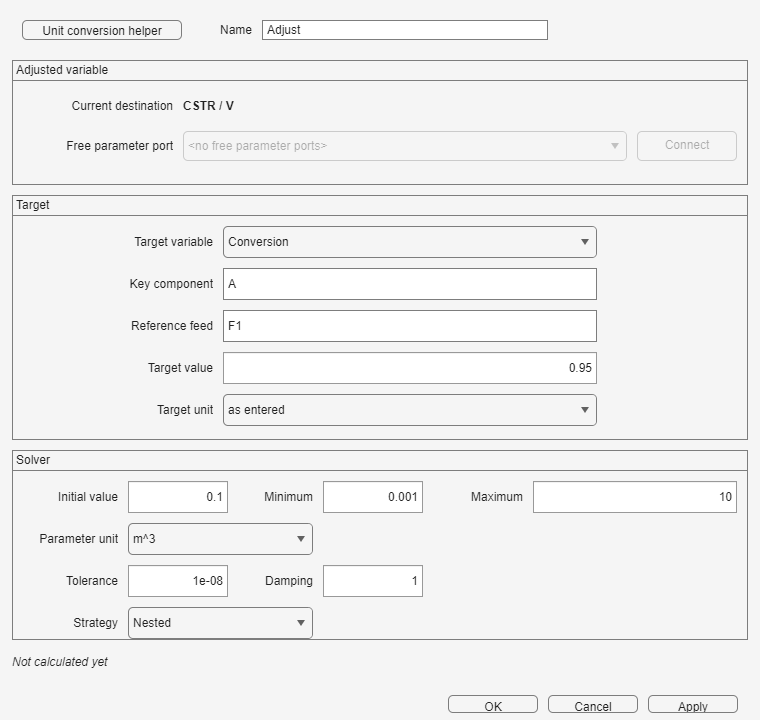
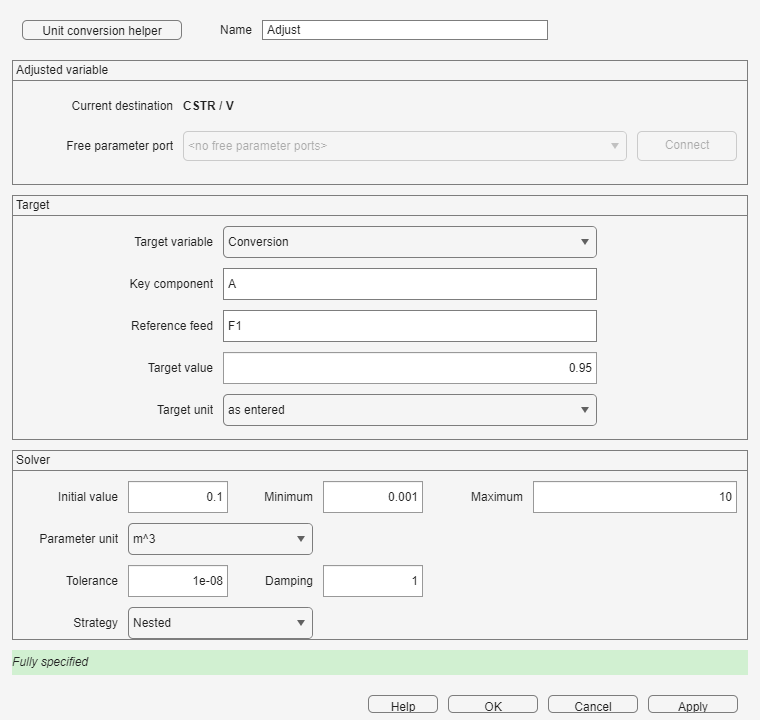
Refresh flowsheet and ideal guide images (T-198)
Recapture the Simulink dialog screenshots with the Help button, add the
missing Ideal Reactor App panels, fix duplicated and misordered text,
end the flowsheet guide at its home page and remove two orphan pages.

Changed region(s): [[0.0, 0.8861, 0.9987, 0.9472], [0.5145, 0.9778, 0.5447, 1.0]]

diff --git a/docs/guides/flowsheet-examples.html b/docs/guides/flowsheet-examples.html
@@ -3,13 +3,13 @@
 <div class="topbar"><div class="brand">Flowsheet Guide</div><nav class="topnav"><a href="../FlowsheetGuide.html">Guide Home</a><a href="flowsheet-getting-started.html">Start a Flowsheet</a></nav></div><div class="crumbs"><a href="../FlowsheetGuide.html">Flowsheet Guide</a> / <span>Examples</span></div>
 <section class="hero"><span class="kicker">Example collection</span><div class="hero-grid"><div><h1>Open a prepared flowsheet</h1><p>Use a solved model to learn block connections, specifications, and result checks before building the same pattern yourself.</p></div><aside class="toc"><h2>On This Page</h2><ol><li><a href="#before">Before you start</a></li><li><a href="#open">Open and run</a></li><li><a href="#catalogue">Example table</a></li><li><a href="#example49">Illustrated example</a></li><li><a href="#next">Next steps</a></li></ol></aside></div></section>
 <section class="section" id="before"><h2>Before You Start</h2><p>Choose an example whose blocks and operating mode resemble your intended model. Examples open from the main <strong>Non-Ideal Reactor Plus</strong> screen.</p></section>
-<section class="section" id="open"><h2>Open and Run an Example</h2><p>In the main window, press <strong>Open example...</strong> in the <strong>Flowsheet (Simulink)</strong> group. The selector lists these descriptions:</p><ol><li>Press <strong>Open example...</strong>.</li><li>Select a description and press <strong>OK</strong>.</li><li>Open the block dialogs to inspect their specifications.</li><li>Press <strong>Run</strong>, then compare Units, Streams, convergence, and Messages.</li></ol></section>
-<section class="section" id="catalogue"><h2>Complete Example Collection</h2><table><tr><th>No.</th><th>Description shown in the selector</th></tr>
+<section class="section" id="open"><h2>Open and Run an Example</h2><p>In the main window, press <strong>Open example...</strong> in the <strong>Flowsheet (Simulink)</strong> group.</p><ol><li>Press <strong>Open example...</strong>.</li><li>Select a description and press <strong>OK</strong>.</li><li>If that example already exists in your writable examples folder, choose whether to open your existing copy or restore the original. Restoring replaces changes in that copy.</li><li>Open the block dialogs to inspect their specifications.</li><li>Press <strong>Run</strong>, then compare Units, Streams, convergence, and Messages.</li></ol></section>
+<section class="section" id="catalogue"><h2>Complete Example Collection</h2><p>The selector lists these descriptions:</p><table><tr><th>No.</th><th>Description shown in the selector</th></tr>
 <tr><td>1</td><td>Isothermal CSTR</td></tr><tr><td>2</td><td>Adiabatic CSTR and cooler</td></tr><tr><td>3</td><td>Adiabatic PFR</td></tr><tr><td>4</td><td>Parallel CSTRs (Problem 40b)</td></tr><tr><td>5</td><td>CSTR with recycle</td></tr><tr><td>6</td><td>Adjusted CSTR volume</td></tr><tr><td>7</td><td>Adiabatic CSTR comparison (Problem 44c)</td></tr><tr><td>8</td><td>Problem 37a - Two CSTRs in series with two feeds</td></tr><tr><td>9</td><td>Problem 40a - Two CSTRs in series</td></tr><tr><td>10</td><td>Problem 42 - CSTR then PFR</td></tr>
 <tr><td>11</td><td>Problem 42 - PFR then CSTR</td></tr><tr><td>12</td><td>Problem 19 - Adiabatic gas PFR</td></tr><tr><td>13</td><td>Problem 21a - Isothermal PFR, adjusted feed T</td></tr><tr><td>14</td><td>Problem 21b - Adiabatic PFR, adjusted feed T</td></tr><tr><td>15</td><td>Problem 27 - Jacketed CSTR, adjusted feed T</td></tr><tr><td>16</td><td>Problem 30 - Mixer and adiabatic CSTR</td></tr><tr><td>17</td><td>Problem 31 - Mixer and cooled CSTR</td></tr><tr><td>18</td><td>Problem 44a - Adjusted PFR and CSTR volumes</td></tr><tr><td>19</td><td>Problem 45a - Three equal adjusted CSTRs</td></tr><tr><td>20</td><td>Problem 45b - Adiabatic CSTR, adjusted feed T</td></tr>
 <tr><td>21</td><td>Problem 17 - Adiabatic PFR, adjusted volume</td></tr><tr><td>22</td><td>Problem 18 - Acetone cracking, adjusted PFR volume</td></tr><tr><td>23</td><td>Problem 23 - Butane isomerization, adjusted PFR volume</td></tr><tr><td>24</td><td>Problem 26 - Gas CSTR scale-up, adjusted volume</td></tr><tr><td>25</td><td>Problem 38 - Two parallel PFRs with one adjusted volume</td></tr><tr><td>26</td><td>Problem 40c - Isothermal PFR, adjusted volume</td></tr><tr><td>27</td><td>Problem 49a - Two equal adiabatic CSTRs</td></tr><tr><td>28</td><td>Problem 49b - One adiabatic CSTR, adjusted volume</td></tr><tr><td>29</td><td>Problem 34d - Jacketed Monsanto-reaction CSTR</td></tr><tr><td>30</td><td>Problem 33b - Cooled reversible gas CSTR</td></tr>
 <tr><td>31</td><td>Problem 41 - Three CSTRs, adjusted feed flow</td></tr><tr><td>32</td><td>Problem 43 - PFR then CSTR, adjusted feed flow</td></tr><tr><td>33</td><td>Problem 43 - CSTR then PFR, adjusted feed flow</td></tr><tr><td>34</td><td>Problem 45c - Cooled tanks, adjusted areas</td></tr><tr><td>35</td><td>Problem 28 - Steam-jacketed CSTR</td></tr><tr><td>36</td><td>Problem 36 - Air-cooled CSTR, adjusted area</td></tr><tr><td>37</td><td>Problem 20b - Adiabatic reversible PFR, adjusted volume</td></tr><tr><td>38</td><td>Problem 29a - Isothermal CSTR, adjusted volume</td></tr><tr><td>39</td><td>Problem 29b - Cooled CSTR, adjusted area</td></tr><tr><td>40</td><td>Problem 32a - Three CSTR steady states (middle branch unstable)</td></tr>
 <tr><td>41</td><td>Problem 48 - CSTR then adiabatic PFR, adjusted volumes</td></tr><tr><td>42</td><td>Problem 33d - CSTR area at maximum heat generation</td></tr><tr><td>43</td><td>Problem 15 - Isothermal gas PFR, number of tubes</td></tr><tr><td>44</td><td>Problem 22 - Adiabatic NO oxidation PFR volume</td></tr><tr><td>45</td><td>Problem 16 - Isothermal PFR space time and product flow</td></tr><tr><td>46</td><td>Problem 35 - Isothermal NO-reduction CSTR</td></tr><tr><td>47</td><td>Problem 35 - Adiabatic CSTR with adjusted feed temperature</td></tr><tr><td>48</td><td>PFR with recycle (R = 1, Levenspiel)</td></tr><tr><td>49</td><td>CSTR, separator and recycle with purge</td></tr><tr><td>50</td><td>Separator recycle loop with adjusted CSTR volume</td></tr></table></section>
-<section class="section" id="example49"><h2>Illustrated Example 49</h2><figure class="figure-card"><img src="../assets/simulink/ex49-flowsheet.png" alt="Example 49 CSTR separator purge and recycle flowsheet"><figcaption>CSTR, separator and recycle with purge demonstrates a component split and a torn recycle loop.</figcaption></figure><p>The examples are checked against textbook or analytical results. Open them from the selector, run them, and compare the reported quantities in <strong>Show results</strong>.</p><div class="callout info"><strong>Frequent error:</strong> do not overwrite an example when experimenting. Save a copy in a writable location first.</div></section>
-<section class="section" id="next"><h2>Next Steps</h2><p>Return to Getting Started to build a clean model, or use the previous topic to interpret its results.</p><div class="footer-nav"><a class="button alt" href="flowsheet-running-results.html">Previous: Running and Results</a><a class="button" href="flowsheet-getting-started.html">Next: Getting Started</a></div></section>
+<section class="section" id="example49"><h2>Illustrated Example 49</h2><figure class="figure-card"><img src="../assets/simulink/ex49-flowsheet.png" alt="Example 49 CSTR separator purge and recycle flowsheet"><figcaption>CSTR, separator and recycle with purge demonstrates a component split and a torn recycle loop.</figcaption></figure><p>The examples are checked against textbook or analytical results. Open them from the selector, run them, and compare the reported quantities in <strong>Show results</strong>.</p><div class="callout info"><strong>Frequent error:</strong> restoring an example replaces changes in its writable copy. Choose <strong>Open existing</strong> to keep editing that copy, or save it under another model name before restoring.</div></section>
+<section class="section" id="next"><h2>Next Steps</h2><p>Return to the guide home to choose another topic, or use the previous topic to interpret results.</p><div class="footer-nav"><a class="button alt" href="flowsheet-running-results.html">Previous: Running and Results</a><a class="button" href="../FlowsheetGuide.html">Back to guide home</a></div></section>
 </div></body></html>

diff --git a/docs/guides/ideal-reactors.html b/docs/guides/ideal-reactors.html
@@ -3,9 +3,9 @@
 <div class="topbar"><div class="brand">Ideal Reactor App Guide</div><nav class="topnav"><a href="../IdealGuide.html">Guide Home</a><a href="ideal-optimization.html">Next: Optimization</a></nav></div><div class="crumbs"><a href="../IdealGuide.html">Ideal Reactor App Guide</a> / <span>Reactors</span></div>
 <section class="hero"><span class="kicker">Reactor setup</span><div class="hero-grid"><div><h1>Configure one reactor or an association</h1><p>Choose the reactor type first; the window then reveals the size, time, heat-transfer, catalyst, and pressure fields that apply.</p></div><aside class="toc"><h2>On This Page</h2><ol><li><a href="#before">Before you start</a></li><li><a href="#define">Define a reactor</a></li><li><a href="#fields">Fields and modes</a></li><li><a href="#associations">Associations and recycle</a></li><li><a href="#mistakes">Frequent errors</a></li><li><a href="#next">Next steps</a></li></ol></aside></div></section>
 <section class="section" id="before"><h2>Before You Start</h2><p>Choose the required PFR, CSTR, or Batch model; the available reactor size; thermal mode; pressure behavior; and whether the reactor is catalytic.</p></section>
-<section class="section" id="define"><h2>Define a Reactor</h2><p>Choose <strong>PFR</strong>, <strong>CSTR</strong>, or <strong>Batch</strong>. The visible fields adapt to the selected type. Specify its name and size, choose isothermal, adiabatic, or other heat exchange, and select the pressure behavior. Extra fields cover tubes, batch time, heat transfer, catalyst data, and pressure drop when relevant. Press <strong>Create Reactor</strong> when the definition is complete.</p><figure class="figure-card"><img src="../assets/ideal/cstr-definition.png" alt="Reactor window configured as an isothermal CSTR"><figcaption>The example is a 0.01 m&sup3; isothermal CSTR at constant pressure.</figcaption></figure><ol><li>Enter a unique Name.</li><li>Select PFR, CSTR, or Batch.</li><li>Enter Volume or the applicable reaction time and geometry.</li><li>Select Heat exchange mode and pressure mode.</li><li>Complete any newly visible fields and press <strong>Create Reactor</strong>.</li></ol></section>
+<section class="section" id="define"><h2>Define a Reactor</h2><p>Choose <strong>PFR</strong>, <strong>CSTR</strong>, or <strong>Batch</strong>. The visible fields adapt to the selected type. Specify its name and size, choose isothermal, adiabatic, or other heat exchange, and select the pressure behavior. Extra fields cover tubes, batch time, heat transfer, catalyst data, and pressure drop when relevant. Press <strong>Create Reactor</strong> when the definition is complete.</p><div class="grid-2"><figure class="figure-card"><img src="../assets/ideal/cstr-definition.png" alt="Reactor window configured as an isothermal CSTR"><figcaption>The example is a 0.01 m&sup3; isothermal CSTR at constant pressure.</figcaption></figure><figure class="figure-card"><img src="../assets/ideal/pfr-definition.png" alt="Reactor window with PFR selected"><figcaption>Selecting PFR exposes tube geometry and pressure-drop choices.</figcaption></figure></div><ol><li>Enter a unique Name.</li><li>Select PFR, CSTR, or Batch.</li><li>Enter Volume or the applicable reaction time and geometry.</li><li>Select Heat exchange mode and pressure mode.</li><li>Complete any newly visible fields and press <strong>Create Reactor</strong>.</li></ol></section>
 <section class="section" id="fields"><h2>Fields and Modes</h2><table><tr><th>Choice</th><th>Visible information</th></tr><tr><td>PFR</td><td>Volume, length, number of tubes, tube diameter, catalyst and pressure-drop data when selected.</td></tr><tr><td>CSTR</td><td>Volume, heat-exchange settings, catalyst data, and pressure behavior.</td></tr><tr><td>Batch</td><td>Reaction time and batch-relevant operating choices.</td></tr><tr><td>Isothermal / Adiabatic / Other</td><td>Other exposes heat-transfer coefficient, area, and utility temperatures.</td></tr><tr><td>Constant / Non constant pressure</td><td>Non constant exposes Pipe or Ergun pressure-drop information.</td></tr></table></section>
-<section class="section" id="associations"><h2>Associations and Recycle</h2><p>Choose <strong>Simulate an association of reactors</strong> for named reactors in series or parallel. Enter the reactor sequence in order, choose <strong>Series</strong> or <strong>Parallel</strong>, and provide the requested split for parallel paths. Choose <strong>Simulate a reactor with recycling</strong> for one named reactor and its recycle ratio.</p><p>The optional <strong>Evaluate equipment costs</strong> selection reports annual cost where the required economic data are available.</p></section>
+<section class="section" id="associations"><h2>Associations and Recycle</h2><p>Choose <strong>Simulate an association of reactors</strong> for named reactors in series or parallel. Enter the reactor sequence in order, choose <strong>Series</strong> or <strong>Parallel</strong>, and provide the requested split for parallel paths. Choose <strong>Simulate a reactor with recycling</strong> for one named reactor and its recycle ratio.</p><div class="grid-2"><figure class="figure-card"><img src="../assets/ideal/main-association.png" alt="Association of reactors panel"><figcaption>The association panel accepts an ordered reactor sequence and a series or parallel arrangement.</figcaption></figure><figure class="figure-card"><img src="../assets/ideal/main-recycle.png" alt="Reactor recycle panel"><figcaption>The recycle panel combines one named reactor with its recycle ratio.</figcaption></figure></div><p>The optional <strong>Evaluate equipment costs</strong> selection reports annual cost where the required economic data are available.</p></section>
 <section class="section" id="mistakes"><h2>Frequent Errors</h2><div class="callout warn"><strong>Check visible dependencies:</strong> Other heat exchange needs all exposed utility data; non-constant pressure needs the selected pressure-loss inputs; an association must use names already created in this session.</div></section>
 <section class="section" id="next"><h2>Next Steps</h2><p>Run a single reactor or association, or continue to optimization when a target product is already defined.</p><div class="footer-nav"><a class="button alt" href="ideal-streams.html">Previous: Streams</a><a class="button" href="ideal-optimization.html">Next: Optimization</a></div></section>
 </div></body></html>

diff --git a/docs/guides/ideal-optimization.html b/docs/guides/ideal-optimization.html
@@ -3,8 +3,8 @@
 <div class="topbar"><div class="brand">Ideal Reactor App Guide</div><nav class="topnav"><a href="../IdealGuide.html">Guide Home</a><a href="ideal-utilities.html">Next: Utilities</a></nav></div><div class="crumbs"><a href="../IdealGuide.html">Ideal Reactor App Guide</a> / <span>Optimization</span></div>
 <section class="hero"><span class="kicker">Design problems</span><div class="hero-grid"><div><h1>Optimize a reactor or reaction path</h1><p>Use optimization only after creating consistent feed, product, reactor, and reactive-system inputs.</p></div><aside class="toc"><h2>On This Page</h2><ol><li><a href="#before">Before you start</a></li><li><a href="#reactor">Reactor optimization</a></li><li><a href="#locus">Reaction path</a></li><li><a href="#mistakes">Frequent errors</a></li><li><a href="#next">Next steps</a></li></ol></aside></div></section>
 <section class="section" id="before"><h2>Before You Start</h2><p>Create the Reactive System, Feed Stream, target Product Stream, and Reactor. Check that the target product is physically consistent with the feed and reaction.</p></section>
-<section class="section" id="reactor"><h2>Reactor Optimization</h2><p>Choose <strong>Optimize reactor</strong>, provide the named feed and target product, and select minimum residence time or minimum cost. Review target values and bounds before pressing <strong>Run</strong>.</p><table><tr><th>Field</th><th>Purpose</th></tr><tr><td>Reactive System, Reactor, Feed Stream, Product Stream</td><td>Select the named inputs used by the design problem.</td></tr><tr><td>Minimize residence time</td><td>Find the smallest residence-time solution that reaches the target.</td></tr><tr><td>Minimize cost</td><td>Use the available equipment and utility cost data.</td></tr><tr><td>Optimum size and solution</td><td>Display the selected design result after Run.</td></tr></table></section>
-<section class="section" id="locus"><h2>Minimum-Residence-Time Path</h2><p>For an exothermic reversible reaction, choose the dedicated problem. Supply the feed, product, and key-component index, then confirm the conditions displayed by the app. The resulting locus compares feasible temperature and conversion paths.</p><figure class="figure-card"><img src="../assets/ideal/main-window.png" alt="Main window with optimization choices"><figcaption>Design problems are selected from the main problem list.</figcaption></figure><ol><li>Select <strong>Minimize residence time (exothermic reversible reactions)</strong>.</li><li>Enter the named system, feed, product, reactor, and key-component index.</li><li>Read and select both confirmation checks only when the case satisfies them.</li><li>Press <strong>Run</strong> and inspect the minimum time, minimum volume, and plotted locus.</li></ol></section>
+<section class="section" id="reactor"><h2>Reactor Optimization</h2><p>Choose <strong>Optimize reactor</strong>, provide the named feed and target product, and select minimum residence time or minimum cost. Review target values and bounds before pressing <strong>Run</strong>.</p><figure class="figure-card"><img src="../assets/ideal/main-optimization.png" alt="Optimize reactor panel in the Ideal Reactor App"><figcaption>The optimization panel combines the named inputs with the residence-time or cost objective.</figcaption></figure><table><tr><th>Field</th><th>Purpose</th></tr><tr><td>Reactive System, Reactor, Feed Stream, Product Stream</td><td>Select the named inputs used by the design problem.</td></tr><tr><td>Minimize residence time</td><td>Find the smallest residence-time solution that reaches the target.</td></tr><tr><td>Minimize cost</td><td>Use the available equipment and utility cost data.</td></tr><tr><td>Optimum size and solution</td><td>Display the selected design result after Run.</td></tr></table></section>
+<section class="section" id="locus"><h2>Minimum-Residence-Time Path</h2><p>For an exothermic reversible reaction, choose the dedicated problem. Supply the feed, product, and key-component index, then confirm the conditions displayed by the app. The resulting locus compares feasible temperature and conversion paths.</p><figure class="figure-card"><img src="../assets/ideal/main-minimum-residence-time.png" alt="Minimum residence time panel for an exothermic reversible reaction"><figcaption>The dedicated panel states its reaction and reactor restrictions beside the required inputs.</figcaption></figure><ol><li>Select <strong>Minimize residence time (exothermic reversible reactions)</strong>.</li><li>Enter the named system, feed, product, reactor, and key-component index.</li><li>Read and select both confirmation checks only when the case satisfies them.</li><li>Press <strong>Run</strong> and inspect the minimum time, minimum volume, and plotted locus.</li></ol></section>
 <section class="section" id="mistakes"><h2>Frequent Errors</h2><div class="callout warn"><strong>Scope of the locus:</strong> it is for a single reversible exothermic reaction and does not support adiabatic reactors. Do not select the confirmations for a different case.</div></section>
 <section class="section" id="next"><h2>Next Steps</h2><p>Use the utility tables and unit converter to prepare consistent heat-transfer and economic inputs.</p><div class="footer-nav"><a class="button alt" href="ideal-reactors.html">Previous: Reactors</a><a class="button" href="ideal-utilities.html">Next: Utilities</a></div></section>
 </div></body></html>

diff --git a/docs/guides/flowsheet-getting-started.html b/docs/guides/flowsheet-getting-started.html
@@ -6,7 +6,7 @@
 <section class="hero"><span class="kicker">First model</span><div class="hero-grid"><div><h1>Create, open, and arrange a flowsheet</h1><p>Connect material streams, reactors, heat-transfer units, recycles, and design specifications in a Simulink diagram. Each named Stream carries flow, composition, temperature, pressure, phase, and solution status between the process blocks.</p></div><aside class="toc"><h2>On This Page</h2><ol><li><a href="#before">Before you start</a></li><li><a href="#create">Create or open</a></li><li><a href="#library">Use the library</a></li><li><a href="#mistakes">Frequent errors</a></li><li><a href="#next">Next steps</a></li></ol></aside></div></section>
 <section class="section" id="before"><h2>Before You Start</h2><p>Open the main <strong>Non-Ideal Reactor Plus</strong> screen. Decide whether you need a blank model or a solved example, and choose a writable folder for a new model.</p><div class="callout info"><strong>Where to begin:</strong> the flowsheet tools are in the <strong>Flowsheet (Simulink)</strong> group on the main screen, not inside either reactor-analysis app.</div></section>
 <section class="section" id="create"><h2>Create or Open a Flowsheet</h2><ol><li>In the main window, <strong>Non-Ideal Reactor Plus</strong>, press <strong>New flowsheet...</strong> in the <strong>Flowsheet (Simulink)</strong> group. The first time, a loading message appears while Simulink starts.</li><li>Complete the <strong>Reactive System</strong> window and press <strong>Create flowsheet...</strong>. Choose a writable name and location for the new model.</li><li>For a solved case, press <strong>Open example...</strong> in the same group, select the description you need, and press <strong>OK</strong>.</li><li>Press <strong>Open block library</strong> in the same group. Drag blocks from the library into the model and double-click a block to edit it.</li></ol></section>
-<section class="section" id="library"><h2>Use the Block Library</h2><figure class="figure-card"><img src="../assets/simulink/block-library.png" alt="Open Simulink block library with process blocks and example links"><figcaption>The block library contains every process block and direct links to the solved examples.</figcaption></figure><ol><li>Drag the required Feed, Stream, reactor, and Product blocks into the model.</li><li>Place a named Stream between material-processing blocks.</li><li>Connect scalar signals and Jacket signals directly to their dedicated ports.</li><li>Double-click each block and complete its visible specifications before running.</li></ol><p>Place a named Stream between material-processing blocks. Scalar signals and the Jacket signal connect directly to their dedicated ports. Values entered in dialogs may use the displayed units.</p></section>
+<section class="section" id="library"><h2>Use the Block Library</h2><figure class="figure-card"><img src="../assets/simulink/block-library.png" alt="Open Simulink block library with process blocks and example links"><figcaption>The block library contains every process block and direct links to the solved examples.</figcaption></figure><ol><li>Drag the required Feed, Stream, reactor, and Product blocks into the model.</li><li>Place a named Stream between material-processing blocks.</li><li>Connect scalar signals and Jacket signals directly to their dedicated ports.</li><li>Double-click each block and complete its visible specifications before running.</li></ol><p>Values entered in dialogs may use the displayed units.</p></section>
 <section class="section" id="mistakes"><h2>Frequent Errors</h2><table><tr><th>Symptom</th><th>What to do</th></tr><tr><td>Blocks are directly connected</td><td>Insert a named Stream between material-processing blocks. Direct scalar and Jacket signal connections are valid.</td></tr><tr><td>The new model cannot be saved</td><td>Choose a writable folder and a valid model name.</td></tr><tr><td>The library appears slowly</td><td>Allow the first Simulink start to finish before pressing another launcher button.</td></tr></table></section>
 <section class="section" id="next"><h2>Next Steps</h2><p>Define components, reactions, kinetics, thermodynamics, feeds, and run settings before configuring process blocks.</p><div class="footer-nav"><a class="button alt" href="../FlowsheetGuide.html">Previous: Guide Home</a><a class="button" href="flowsheet-reactive-system.html">Next: Reactive System</a></div></section>
 </div></body></html>

diff --git a/tests/NirpGuidesTest.m b/tests/NirpGuidesTest.m
@@ -37,6 +37,34 @@ classdef NirpGuidesTest < matlab.unittest.TestCase
             end
         end
 
+        function idealAndFlowsheetTopicsContainCurrentImages(testCase)
+            root = fileparts(fileparts(mfilename('fullpath'))) ;
+            guides = fullfile(root, 'docs', 'guides') ;
+            pages = [matchingPages(guides, 'ideal-*.html'), ...
+                matchingPages(guides, 'flowsheet-*.html')] ;
+            for index = 1:numel(pages)
+                html = string(fileread(pages{index})) ;
+                testCase.verifyNotEmpty(regexp(html, ...
+                    '<img[^>]+src="[^"]+"', 'once'), sprintf( ...
+                    '%s has no guide image', pages{index})) ;
+            end
+
+            required = ["main-optimization.png", ...
+                "main-minimum-residence-time.png", ...
+                "main-association.png", "main-recycle.png", ...
+                "pfr-definition.png"] ;
+            combined = string(fileread(fullfile(guides, ...
+                'ideal-optimization.html'))) + string(fileread(fullfile( ...
+                guides, 'ideal-reactors.html'))) ;
+            for image = required
+                testCase.verifySubstring(combined, image) ;
+                testCase.verifyTrue(isfile(fullfile(root, 'docs', ...
+                    'assets', 'ideal', image))) ;
+            end
+            testCase.verifyFalse(contains(string(fileread(fullfile(guides, ...
+                'ideal-optimization.html'))), 'main-window.png')) ;
+        end
+
         function tracerHelpTargetsHaveAnchorsOnTheirOwnGuide(testCase)
             root = fileparts(fileparts(mfilename('fullpath'))) ;
             page = fullfile(root, 'docs', 'TracerFlowsheetGuide.html') ;
@@ -109,17 +137,6 @@ classdef NirpGuidesTest < matlab.unittest.TestCase
                     end
                 end
             end
-        end
-
-        function legacyEntriesPointToTheirOwnGuides(testCase)
-            root = fileparts(fileparts(mfilename('fullpath'))) ;
-
-            idealLegacy = fileread(fullfile(root, 'docs', 'guides', ...
-                'ideal-reactor-app.html')) ;
-            flowLegacy = fileread(fullfile(root, 'docs', 'guides', ...
-                'simulink-flowsheet.html')) ;
-            testCase.verifySubstring(string(idealLegacy), '../IdealGuide.html') ;
-            testCase.verifySubstring(string(flowLegacy), '../FlowsheetGuide.html') ;
         end
 
         function convolutionIsDocumentedAsTabSix(testCase)
@@ -397,8 +414,7 @@ function [sets, names] = guidePageSets(root)
     ideal = [{fullfile(docs, 'IdealGuide.html')}, ...
         matchingPages(guides, 'ideal-*.html')] ;
     flowsheet = [{fullfile(docs, 'FlowsheetGuide.html')}, ...
-        matchingPages(guides, 'flowsheet-*.html'), ...
-        {fullfile(guides, 'simulink-flowsheet.html')}] ;
+        matchingPages(guides, 'flowsheet-*.html')] ;
     tracer = [{fullfile(docs, 'TracerFlowsheetGuide.html')}, ...
         matchingPages(guides, 'tracer-*.html')] ;
     sets = {nonIdeal, ideal, flowsheet, tracer} ;

diff --git a/tests/NirpSimulinkGuideTest.m b/tests/NirpSimulinkGuideTest.m
@@ -18,7 +18,6 @@ classdef NirpSimulinkGuideTest < matlab.unittest.TestCase
             root = fileparts(fileparts(mfilename('fullpath'))) ;
             docs = fullfile(root,'docs') ;
             guideFiles = [string(fullfile(docs,'FlowsheetGuide.html')); ...
-                string(fullfile(docs,'guides','simulink-flowsheet.html')); ...
                 string(fullfile(docs,'guides', ...
                 {'flowsheet-getting-started.html';'flowsheet-reactive-system.html'; ...
                 'flowsheet-streams.html';'flowsheet-reactors.html'; ...
